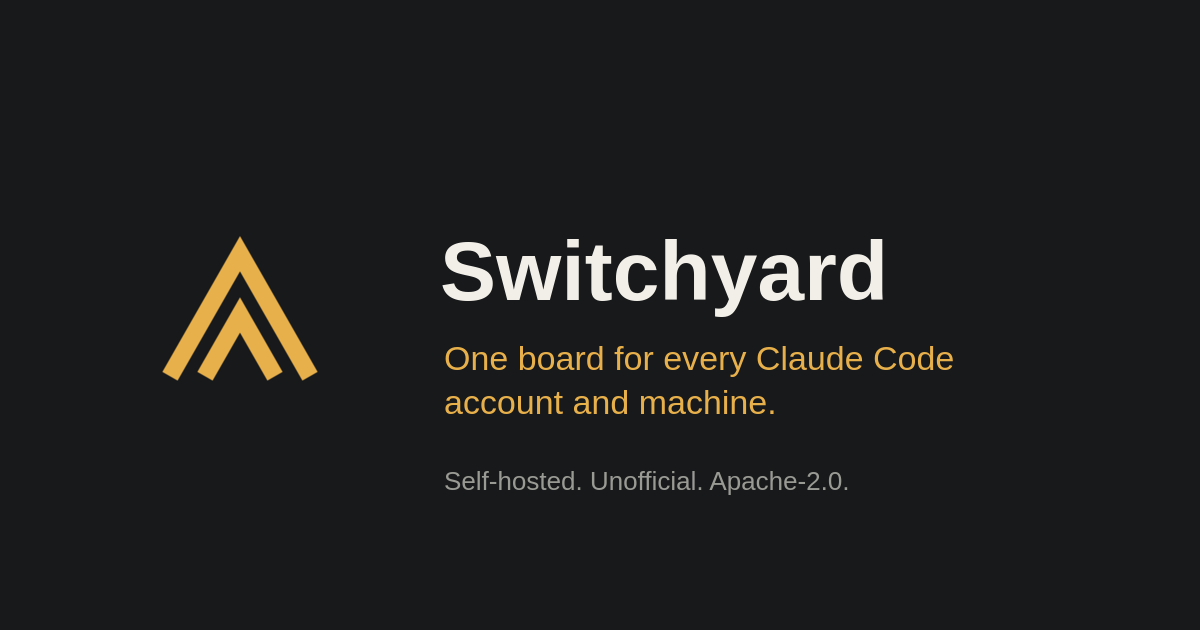
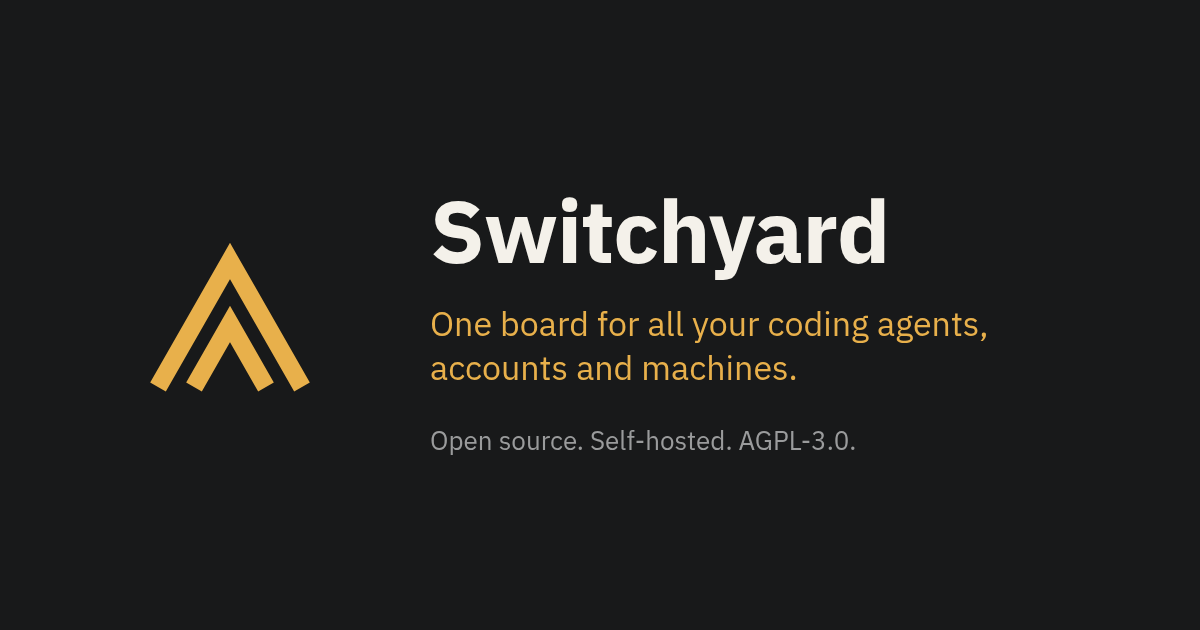
Position Switchyard as a board for any coding agent; roadmap by priority
Claude Code is supported today; more agents and better analytics come first.
Shared/team hubs are not planned (a hub belongs to one person). The social
card is regenerated from scripts/demo/social-card.html (it still said Apache-2.0).

Claude-Session: https://claude.ai/code/session_0152WWeWzWVkZLtsz5TaSN1N

Changed region(s): [[0.3392, 0.3016, 0.8325, 0.7238], [0.1233, 0.3619, 0.2775, 0.6333], [0.37, 0.754, 0.7092, 0.7841]]

diff --git a/site/index.html b/site/index.html
@@ -4,8 +4,8 @@
   <meta charset="utf-8">
   <meta name="viewport" content="width=device-width, initial-scale=1">
   <meta http-equiv="Content-Security-Policy" content="default-src 'self'; script-src 'self'; style-src 'self'; img-src 'self'; font-src 'self'; connect-src 'none'; object-src 'none'; base-uri 'none'; form-action 'none'">
-  <title>Switchyard: one board for every Claude Code account</title>
-  <meta name="description" content="Switchyard is an unofficial, self-hosted board for Claude Code across several accounts and machines: session states, usage limits and alerts when a session needs you.">
+  <title>Switchyard: one board for all your coding agents</title>
+  <meta name="description" content="Switchyard is an open-source, self-hosted board for AI coding agents across accounts and machines: session states, usage limits and alerts when a session needs you. Claude Code today, more agents next.">
   <meta name="color-scheme" content="light dark">
   <link rel="canonical" href="https://mraj602.github.io/switchyard/">
   <link rel="icon" href="favicon.svg" type="image/svg+xml">
@@ -13,18 +13,18 @@
   <link rel="apple-touch-icon" href="apple-touch-icon-180.png">
   <meta property="og:type" content="website">
   <meta property="og:site_name" content="Switchyard">
-  <meta property="og:title" content="Switchyard: one board for every Claude Code account">
-  <meta property="og:description" content="Self-hosted and unofficial. Every session's state, every account's limits, and an alert when a session needs you.">
+  <meta property="og:title" content="Switchyard: one board for all your coding agents">
+  <meta property="og:description" content="Open source and self-hosted. Every coding agent session's state, every account's limits, and an alert when a session needs you.">
   <meta property="og:url" content="https://mraj602.github.io/switchyard/">
   <meta property="og:image" content="https://mraj602.github.io/switchyard/img/social-card.png">
   <meta property="og:image:width" content="1200">
   <meta property="og:image:height" content="630">
-  <meta property="og:image:alt" content="Switchyard logo and the line: one board for every Claude Code account and machine.">
+  <meta property="og:image:alt" content="Switchyard logo and the line: one board for all your coding agents, accounts and machines.">
   <meta name="twitter:card" content="summary_large_image">
-  <meta name="twitter:title" content="Switchyard: one board for every Claude Code account">
-  <meta name="twitter:description" content="Self-hosted and unofficial. Every session's state, every account's limits, and an alert when a session needs you.">
+  <meta name="twitter:title" content="Switchyard: one board for all your coding agents">
+  <meta name="twitter:description" content="Open source and self-hosted. Every coding agent session's state, every account's limits, and an alert when a session needs you.">
   <meta name="twitter:image" content="https://mraj602.github.io/switchyard/img/social-card.png">
-  <meta name="twitter:image:alt" content="Switchyard logo and the line: one board for every Claude Code account and machine.">
+  <meta name="twitter:image:alt" content="Switchyard logo and the line: one board for all your coding agents, accounts and machines.">
   <link rel="preload" href="fonts/ibm-plex-sans-latin-400-normal.woff2" as="font" type="font/woff2" crossorigin>
   <link rel="stylesheet" href="style.css">
   <script src="site.js" defer></script>
@@ -52,8 +52,8 @@
     <section class="hero" id="top">
       <div class="wrap">
         <p class="eyebrow">Unofficial, self-hosted, AGPL-3.0</p>
-        <h1>One board for every Claude Code account and machine.</h1>
-        <p class="lead">See every session's state, every account's limits, and get a notification when a session needs you. It runs on your own hub, with no cloud service in the middle.</p>
+        <h1>One board for all your coding agents, accounts and machines.</h1>
+        <p class="lead">See every session's state, every account's limits, and get a notification when a session needs you. It runs on your own hub, with no cloud service in the middle. Claude Code is supported today; Codex CLI, Gemini CLI and more are next.</p>
         <p class="cta">
           <a class="btn primary" href="#install">Install</a>
           <a class="btn" href="https://github.com/mraj602/switchyard">View on GitHub</a>

diff --git a/scripts/demo/social-card.html b/scripts/demo/social-card.html
@@ -1,0 +1,23 @@
+<!doctype html>
+<!-- The site's social card (site/img/social-card.png, 1200x630). Render with:
+     google-chrome --headless --disable-gpu --hide-scrollbars --window-size=1200,630 \
+       --screenshot=site/img/social-card.png scripts/demo/social-card.html -->
+<html lang="en"><head><meta charset="utf-8">
+<style>
+  @font-face { font-family: Plex; font-weight: 400; src: url(../../site/fonts/ibm-plex-sans-latin-400-normal.woff2); }
+  @font-face { font-family: Plex; font-weight: 700; src: url(../../site/fonts/ibm-plex-sans-latin-700-normal.woff2); }
+  html, body { margin: 0; width: 1200px; height: 630px; background: #18191a; overflow: hidden; }
+  body { display: flex; align-items: center; gap: 110px; padding: 0 140px; box-sizing: border-box; font-family: Plex, sans-serif; }
+  svg { flex: none; width: 180px; height: 180px; }
+  h1 { margin: 0; color: #f4f1ea; font-size: 88px; font-weight: 700; letter-spacing: -1px; }
+  .line { margin: 14px 0 0; color: #e8b04b; font-size: 34px; line-height: 1.3; }
+  .small { margin: 34px 0 0; color: #9a9b9c; font-size: 26px; }
+</style></head>
+<body>
+  <svg viewBox="1 0 20 20" aria-hidden="true"><g fill="none" stroke="#E8B04B" stroke-width="2" stroke-linejoin="miter" stroke-linecap="butt"><path d="M3 18 L11 4 L19 18"/><path d="M7 18 L11 11 L15 18"/></g></svg>
+  <div>
+    <h1>Switchyard</h1>
+    <p class="line">One board for all your coding agents,<br>accounts and machines.</p>
+    <p class="small">Open source. Self-hosted. AGPL-3.0.</p>
+  </div>
+</body></html>

diff --git a/README.md b/README.md
@@ -5,8 +5,9 @@
 [![phone](https://github.com/mraj602/switchyard/actions/workflows/phone.yml/badge.svg?branch=main)](https://github.com/mraj602/switchyard/actions/workflows/phone.yml)
 [![License: AGPL-3.0](https://img.shields.io/badge/license-AGPL--3.0-blue.svg)](LICENSE)
 
-A self-hosted board for several Claude Code accounts on several machines: every session's
-state, every account's limits, and a notification when a session needs you.
+An open-source, self-hosted board for your AI coding agents, across accounts and machines:
+every session's state, every account's limits, and a notification when a session needs you.
+Claude Code is supported today; more coding agents are next (see the [roadmap](#roadmap)).
 
 **Website: <https://mraj602.github.io/switchyard/>**
 
@@ -15,8 +16,8 @@ state, every account's limits, and a notification when a session needs you.
 > trademarks of Anthropic, PBC, used here only to describe compatibility. Use it only with
 > your own accounts and within the terms of your plan. See [Terms and risk](#terms-and-risk).
 
-If you run Claude Code in two or more accounts (say work and personal), on a laptop and a
-server or two, you end up checking terminals to see which session is waiting for you and
+If you run a coding agent such as Claude Code in two or more accounts (say work and
+personal), on a laptop and a server or two, you end up checking terminals to see which session is waiting for you and
 which account still has room. Switchyard gives you one view of all of it, on your own hub:
 
 - **One board** of every session on every machine, grouped by account: working, needs
@@ -196,21 +197,24 @@ More: [docs/guide/faq.md](docs/guide/faq.md).
 
 ## Roadmap
 
-Ideas for after 1.0, roughly in order. They are plans, not promises; open an issue if one
-matters to you.
+Switchyard is meant to be neutral: one board for whichever coding agents and providers you
+use. In order of priority (plans, not promises; open an issue if one matters to you):
 
-- **More coding agents.** Show OpenAI Codex CLI, Google Antigravity and Gemini CLI sessions on
-  the same board, with the same states, alerts and limits per account as Claude Code.
-- **claude.ai artifacts from every account.** One list of the artifacts each signed-in account
-  has made, in the desktop app and the board, opening each in its own account's tab.
-- **An iPhone app.** Today an iPhone uses the board as a web app or ntfy.
-- **Desktop updates.** Update the desktop app from inside the app, and code-signed macOS and
-  Windows builds so first start has no warning.
-- **Android in app stores.** IzzyOnDroid, then F-Droid with reproducible builds. Today the APK is
-  on GitHub Releases only.
-- **A shared hub for a small team.** Each person sees their own accounts and sessions on one
-  hub.
-- **A hosted hub,** for people who would rather not run their own. Self-hosting stays free.
+1. **More coding agents.** OpenAI Codex CLI, Google Gemini CLI and Antigravity next to Claude
+   Code on the same board: the same session states, alerts and per-account limits, wherever the
+   tool exposes them.
+2. **Better analytics.** Usage, tokens and cost over time per account, provider, project and
+   model; when and how often each account hits its limits; forecasts and exports.
+3. **Artifacts across accounts.** Detect which account made each claude.ai artifact (and the
+   other tools' equivalents), and let sessions in your other accounts use and share them
+   through peers.
+4. **Desktop updates** from inside the app, and code-signed macOS and Windows builds.
+5. **A hosted hub,** for people who would rather not run their own. Self-hosting stays free.
+6. **Android in app stores** (IzzyOnDroid, then F-Droid). Today the APK is on GitHub Releases.
+7. **An iPhone app.** Today an iPhone uses the board as a web app or ntfy.
+
+Not planned: shared or team hubs. A hub belongs to one person, and only you see your sessions,
+accounts and usage.
 
 ## Similar tools
 
